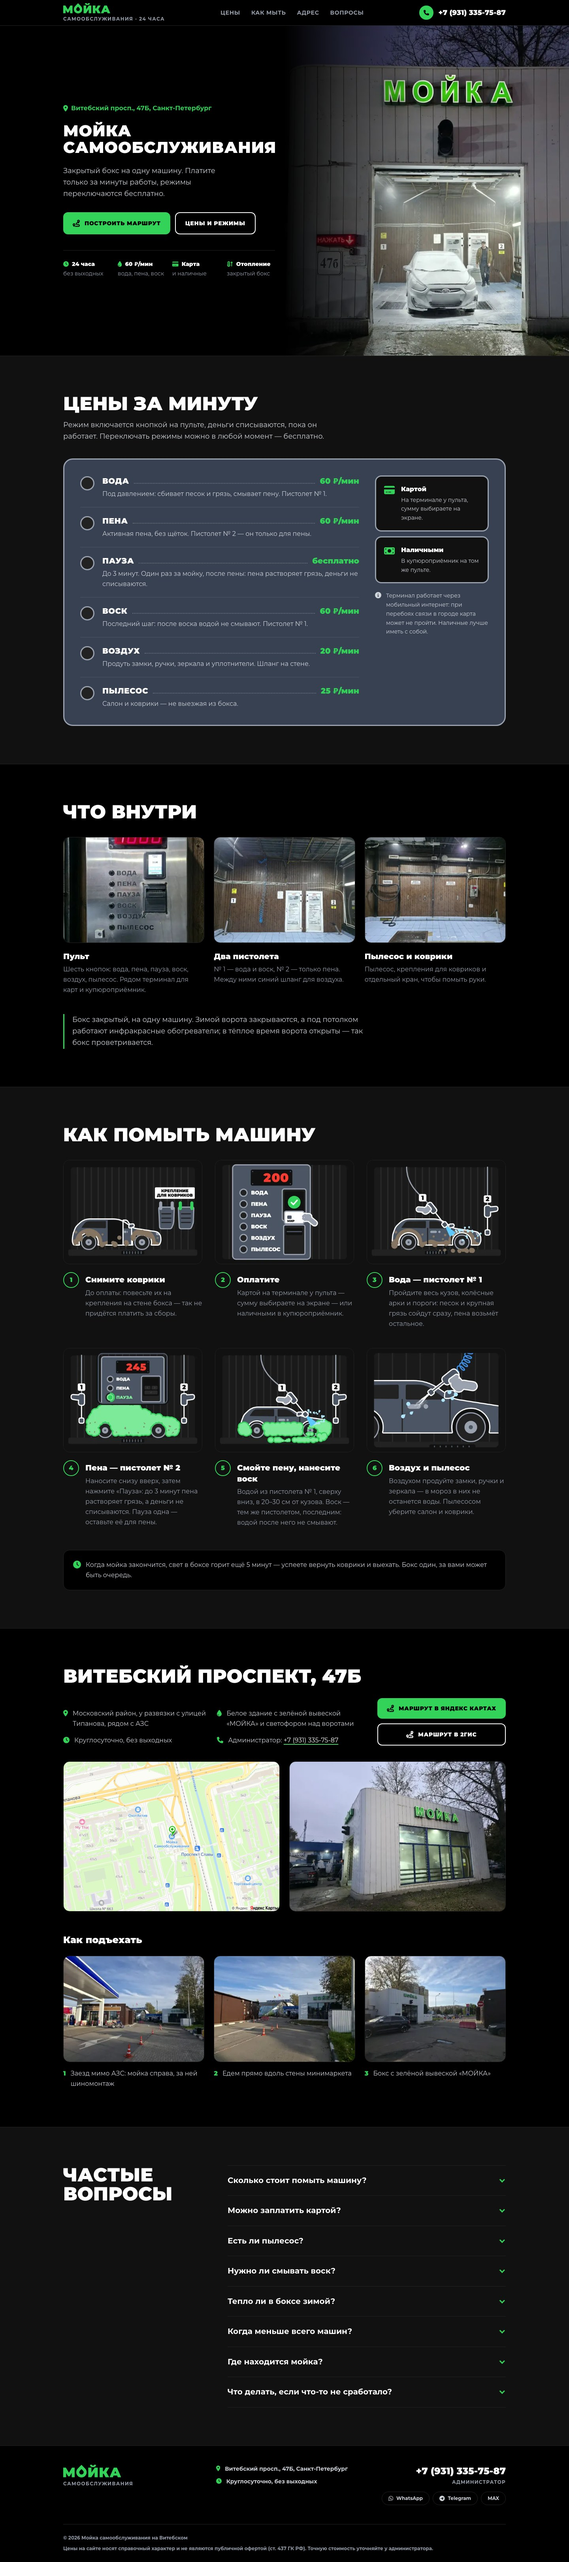
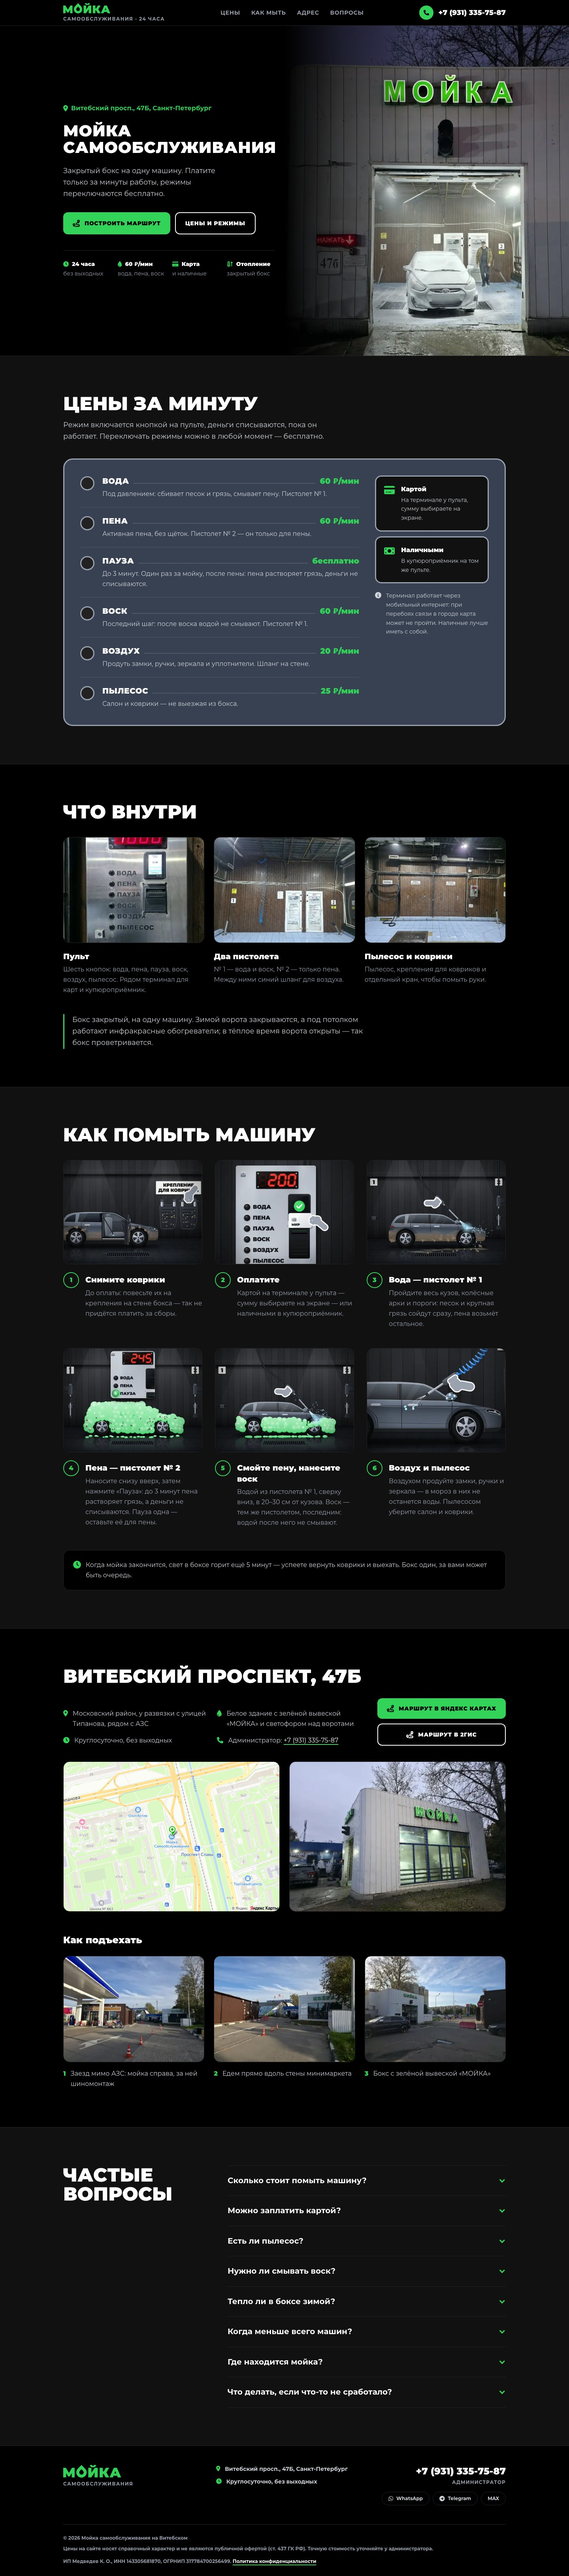
Мойка: свежие кадры и политика конфиденциальности в «Что сделал»
На кадрах перерисованные ролики к шагам «Как помыть» и подвал с
реквизитами владельца и ссылкой на политику. Новый пункт в кейсе:
политика по 152-ФЗ описывает только то, что сайт собирает.
Цифры перемерены по живому сайту 04.11.2026: страница 24 КБ в gzip -9,
своего JS 2 КБ, роликов 6 - всё как было.

diff --git a/src/data/works.ts b/src/data/works.ts
@@ -11,8 +11,8 @@
 //   со слов Максима 01.11.2026;
 // - шиномонтаж: README.md, remotion/README.md; вес страницы — замер живого
 //   сайта в gzip, скорость — PageSpeed Insights по живому сайту (02.11.2026);
-// - мойка: README.md, src/data/content.ts; вес страницы, свой JS и ролики —
-//   с живого сайта (24.10.2026);
+// - мойка: README.md, src/data/content.ts, src/pages/privacy.astro; вес
+//   страницы, свой JS и ролики — с живого сайта (04.11.2026);
 // - ТИ: README.md;
 // - OMEGA и PERIBACA: их README.md.
 // Кадры для окон — в data/live.ts, их снимает с живых сайтов tools/capture-live.mjs.
@@ -179,6 +179,7 @@ export const works: Work[] = [
       "Шесть анимированных роликов к инструкции «Как помыть машину» - они воспроизводятся, только когда видны на экране",
       "Цены, тексты и контакты вынесены отдельно: чтобы изменить цену, достаточно поправить одну строку",
       "Яндекс Метрика с целями: видно, какие кнопки нажимают и из какого блока страницы звонят",
+      "Политика конфиденциальности по 152-ФЗ написана под этот сайт: в ней только то, что он собирает на самом деле, а реквизиты владельца - в подвале",
       "Поисковики и ИИ-ассистенты понимают, что это за мойка, где она находится и сколько стоит",
     ],
     metrics: [
